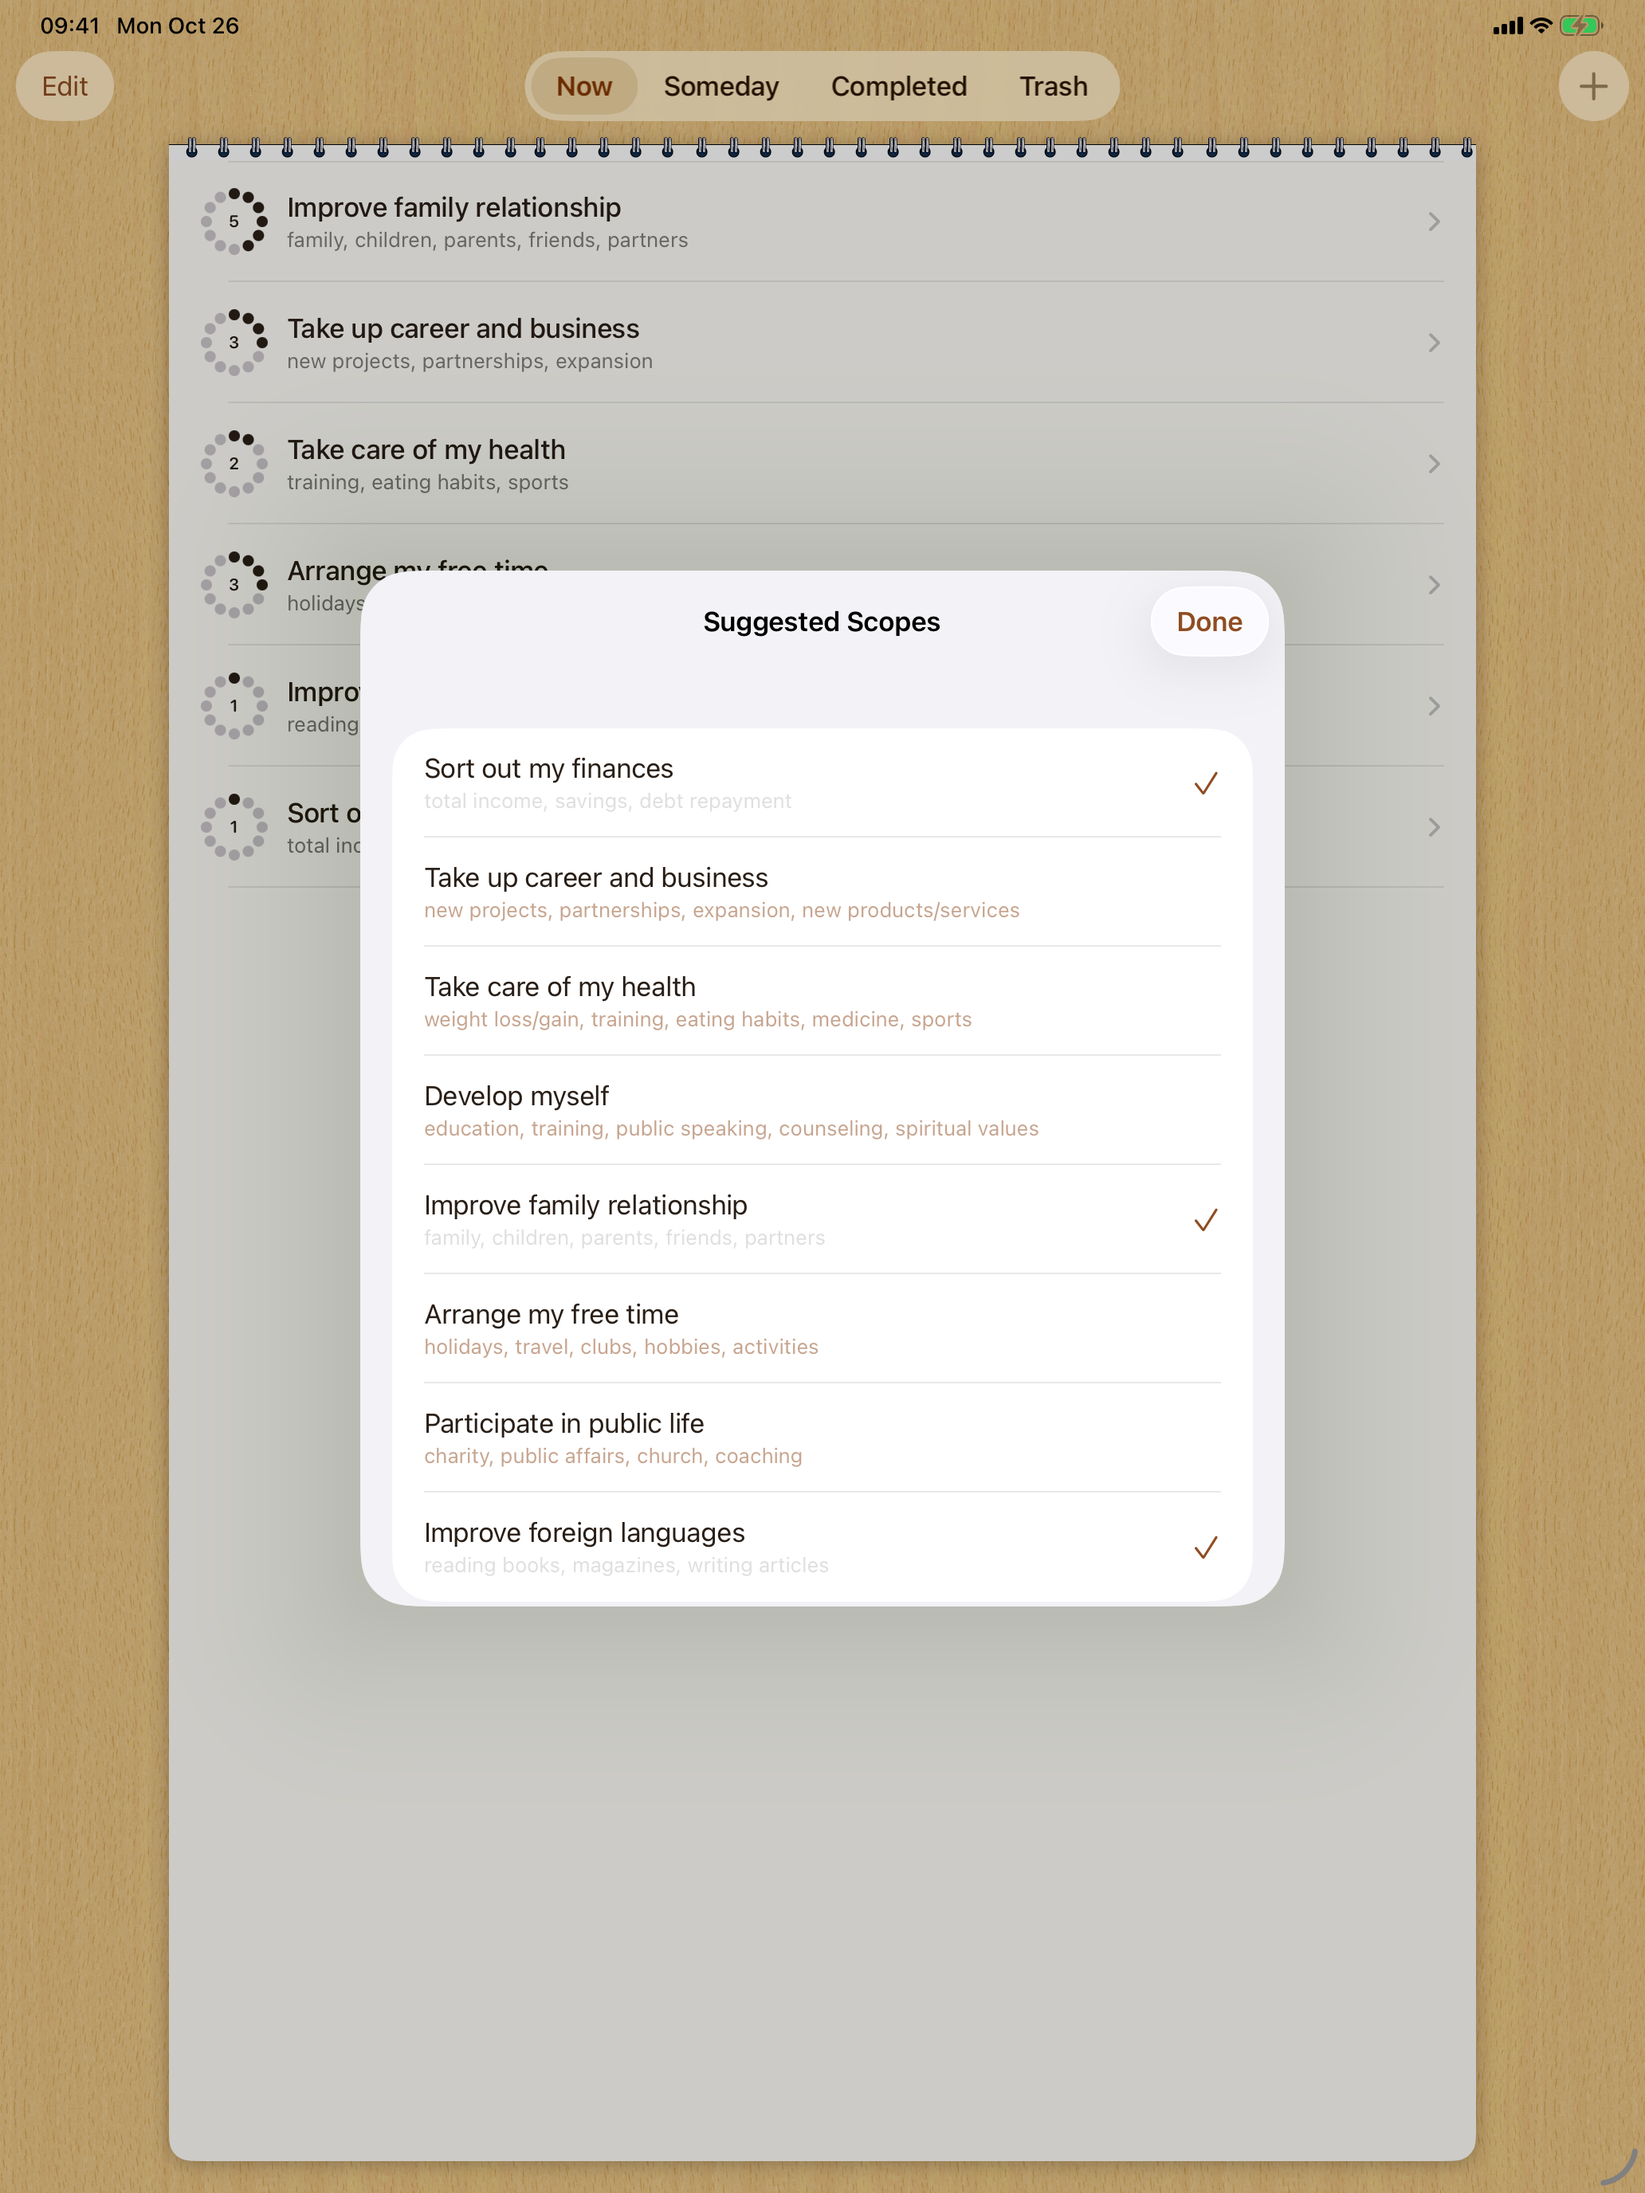
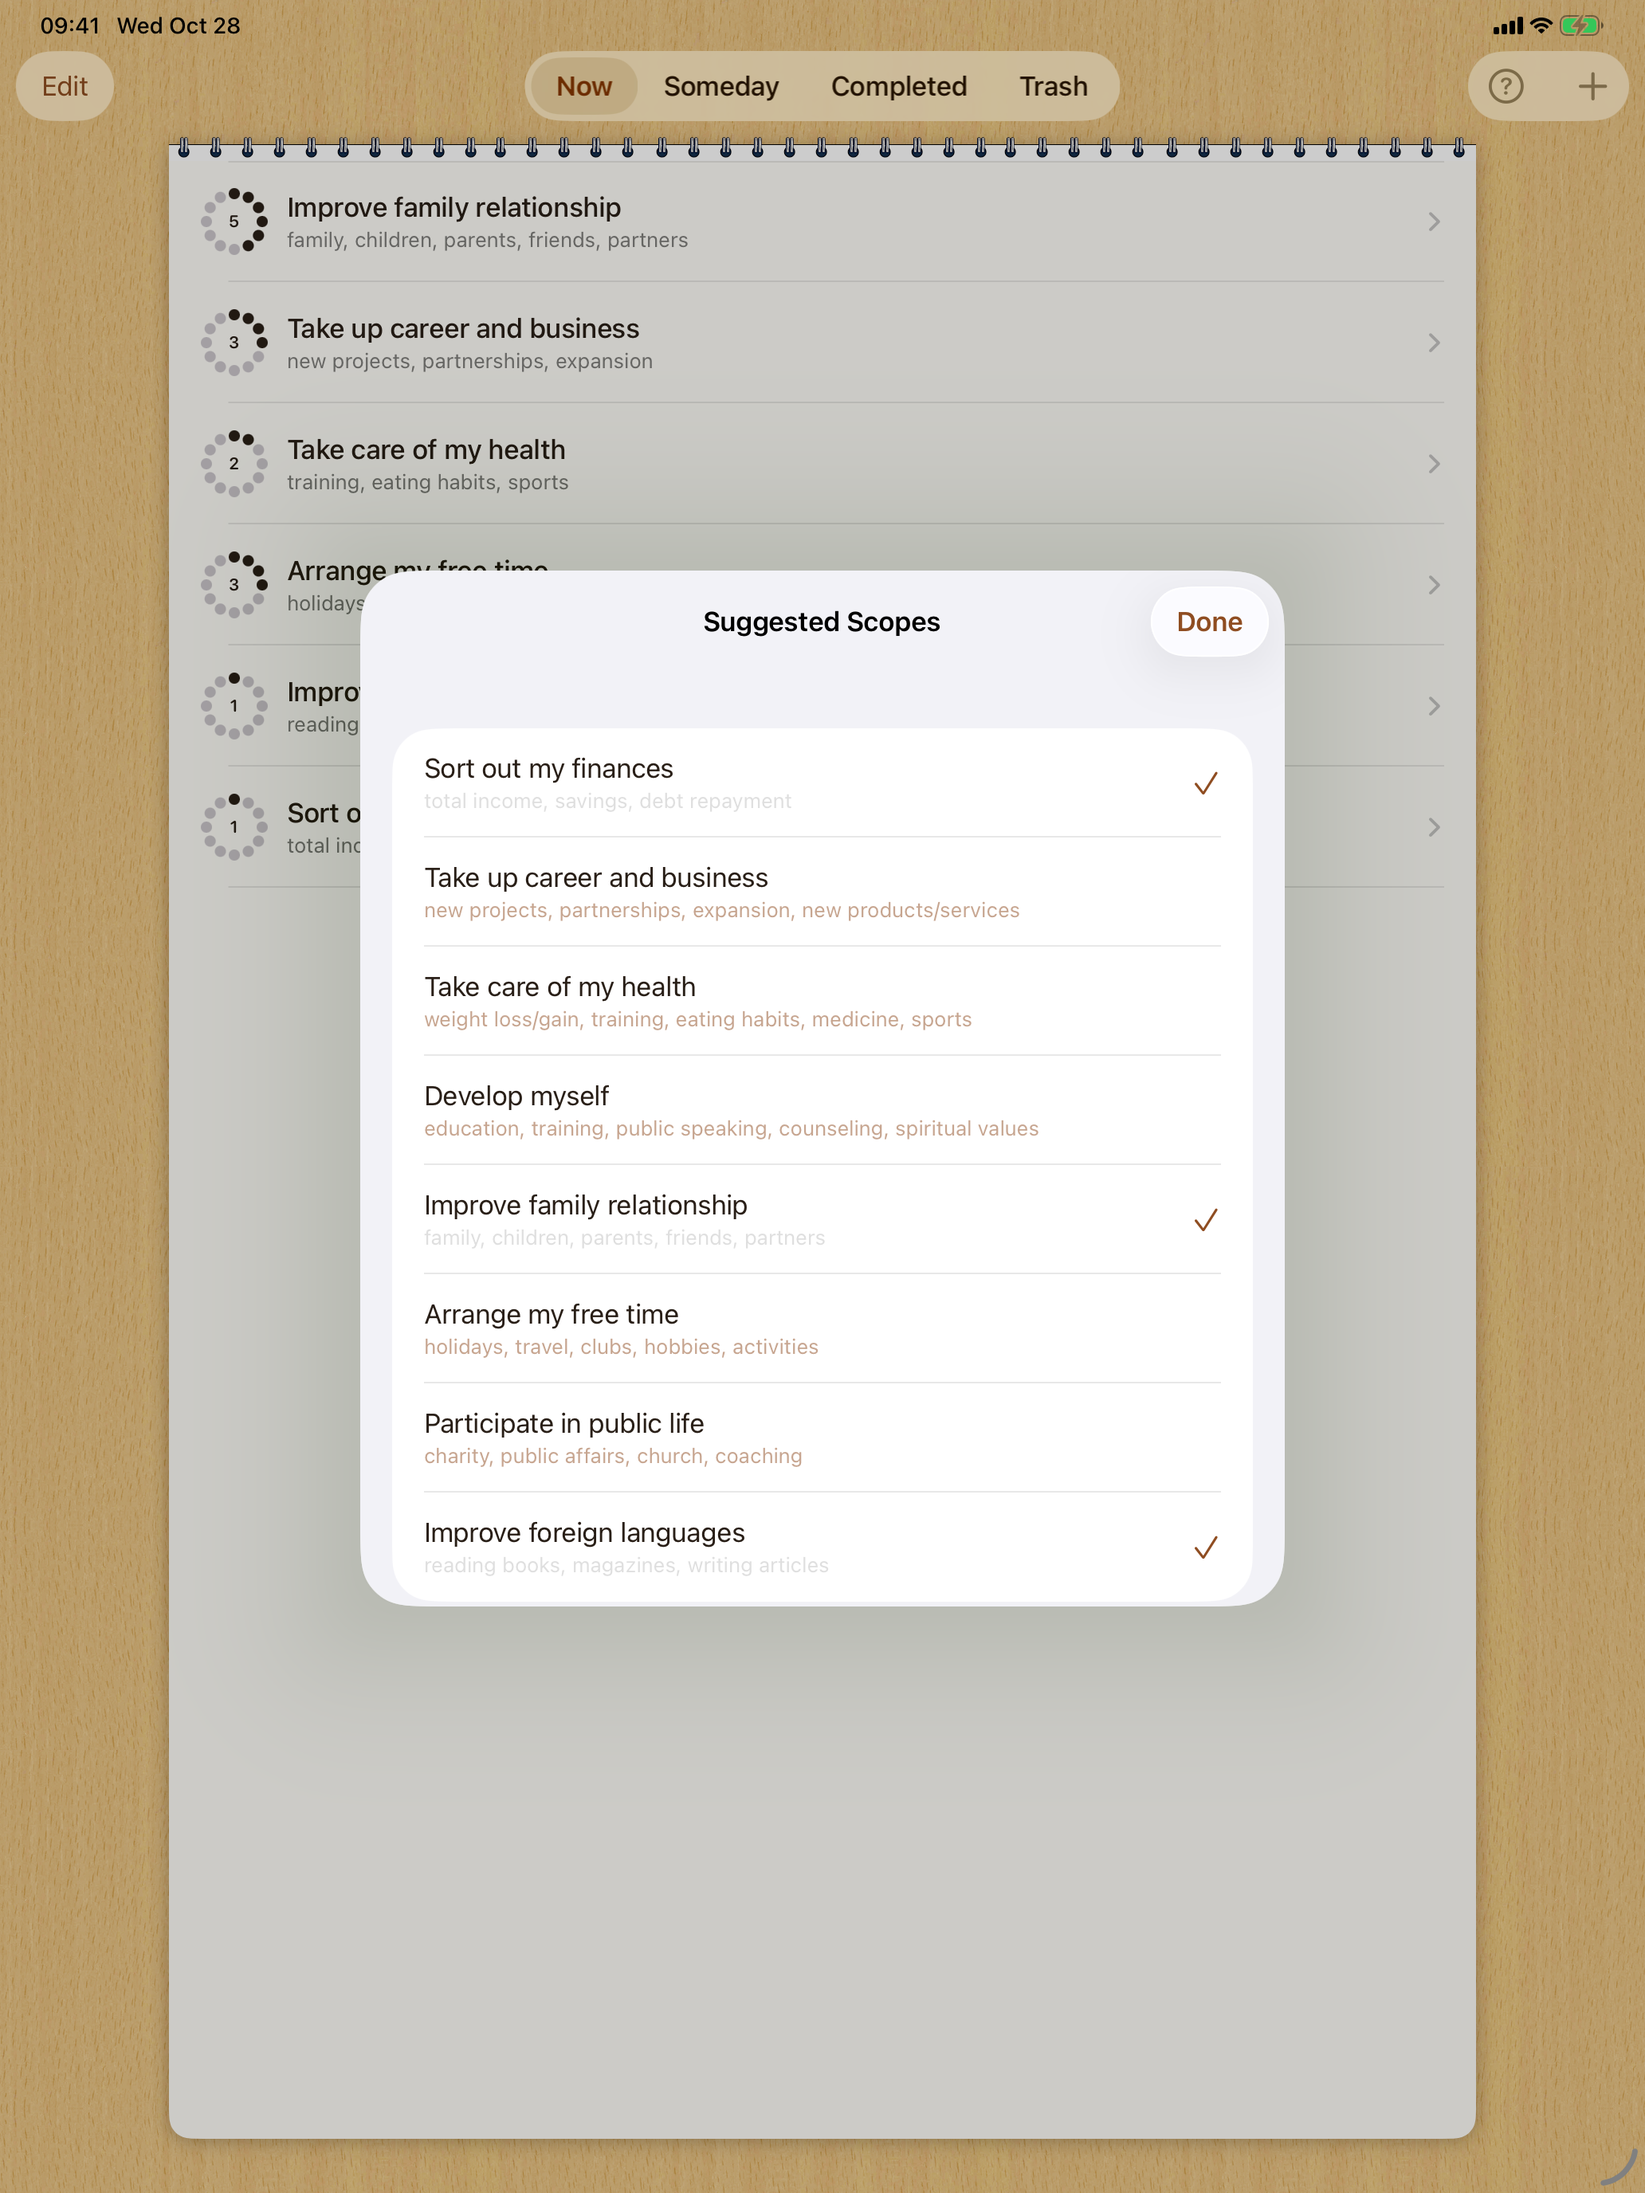
Version 1.4: texts and fresh screenshots

Changed region(s): [[0.124, 0.0, 0.9612, 0.0938], [0.093, 0.9688, 0.8992, 1.0]]

diff --git a/assets/app-store-texts.md b/assets/app-store-texts.md
@@ -1,6 +1,6 @@
 # App Store texts — Be Irrational
 
-Version 1.3 of the existing app record (App Store Connect app id 483434584, bundle
+Version 1.4 (1.3 was the Swift rewrite, live since 2026-10-28) of the existing app record (App Store Connect app id 483434584, bundle
 `net.shtykhno.BeIrrational`, primary language English (U.S.)): a Swift rewrite of the 2011 app
 that opens the data of 1.2 unchanged. 1.2 has been live since 2013, so the new version is 1.3.
 Character limits are in brackets.
@@ -33,7 +33,9 @@ HOW IT WORKS
 • Fill it with what you would do now.
 • Set the progress of each one; the ring of dots shows how far you are and how many days it has
   taken.
-• Swipe to put things aside for Someday, to mark them Completed or to send them to the Trash.
+• Write down what you would do one day on the Someday list, or swipe things there from Now.
+• Swipe to mark things Completed or to send them to the Trash.
+• Not sure where to start? How It Works walks you through it in five short steps.
 • Reorder, edit and come back to anything at any time.
 
 QUIET BY DESIGN
@@ -44,12 +46,9 @@ Just live, enjoy your life, and may your wishes come true.
 
 ## What's New in This Version [4000]
 
-Be Irrational is rebuilt from scratch for today's iPhones and iPads.
-• A fresh look, with the wooden desk and spiral notepad you know.
-• Swipe a row to move it to Someday, Completed or Trash, or to edit it.
-• Suggested scopes to get started in seconds.
-• Progress and day counters on every occupation.
-• Your lists from earlier versions are all still there.
+• Write straight into Someday: tap + on the Someday tab.
+• New How It Works guide, shown on first launch and any time from the ? on the Now tab.
+• The notepad no longer slips under the tab bar, and its spiral binding fits every screen.
 
 ## Keywords [100]
 
@@ -88,8 +87,8 @@ Data Not Collected. The app has no network access; everything the user writes st
 
 No login is needed and the app works offline. Tap + on the Now tab to add a scope (or pick a
 suggested one), open it and tap + to add an occupation. Swipe rows left to move them to Someday,
-Completed or Trash, right to edit. This is version 1.3 of the app, rewritten in Swift; it keeps
-the data of 1.2.
+Completed or Trash, right to edit. Tap + on the Someday tab to write there directly; the ? on the
+Now tab opens a short guide. Version 1.4 answers user reviews asking how to write into Someday.
 
 ## Screenshots
 
